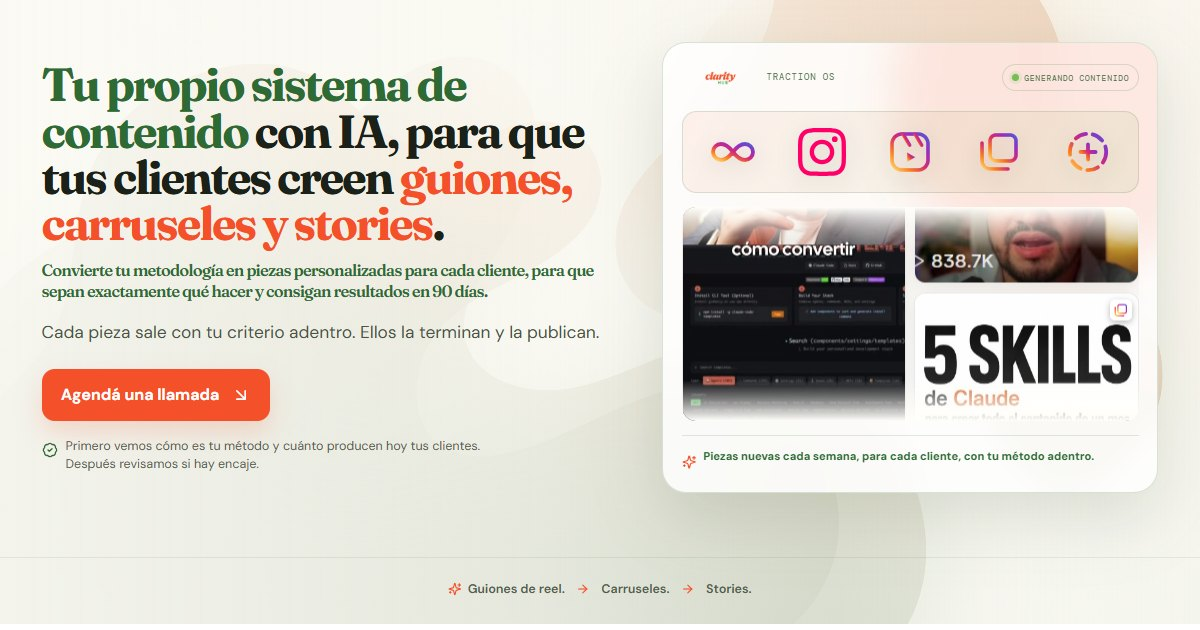
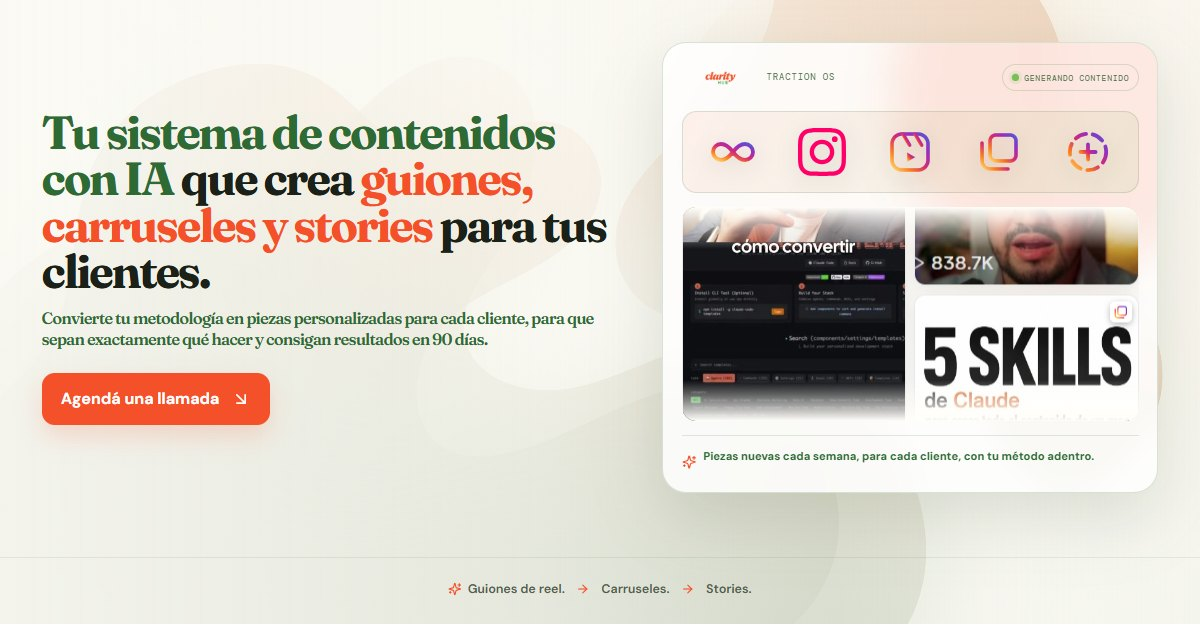
Traction OS: titular mas corto, menos relleno y sin numeros de cartera
Titular: "Tu sistema de contenidos con IA que crea guiones, carruseles y
stories para tus clientes". Mas corto y en voz activa: antes el sistema
era un medio para que el cliente hiciera algo; ahora el sistema es el que
crea. Va tambien en la seccion del home, en el title/description del
servidor y en llms.txt, que repetian la version vieja.

Fuera del hero dos frases de relleno: "cada pieza sale con tu criterio
adentro, ellos la terminan y la publican" y el microcopy de abajo del
boton. Queda titular, subtitulo y CTA.

Fuera los numeros de cartera de toda la web (veinte, dieciseis, ochenta).
No sabemos cuantos clientes tiene el que lee, y clavar veinte deja afuera
al que tiene cinco y al que tiene cien:

- "Tenes muchos clientes... se te va la hora con los primeros cuatro."
- "Los demas publican sin que nadie les haya mirado el guion."
- Beneficio 02: "Llegas a todos, no a los primeros cuatro."
- El grafico de alcance mantiene los puntos pero el rotulo ya no dice el
  numero: "4" contra "Todos".
- "Los ochenta guiones del mes" pasa a "cientos de guiones al mes", en el
  antes/despues y en el pie del grafico.

Resaltada con marcador amarillo la consecuencia en plata: "sin casos no
tenes embajadores que te refieran ni testimonios con que vender". El
degradado arranca al 56% para que parezca trazo y no un bloque, y con
box-decoration-break corta bien al pasar de renglon.

Imagenes de preview regeneradas: el hero cambio.
[…]

diff --git a/client/src/pages/TractionOS.tsx b/client/src/pages/TractionOS.tsx
@@ -45,9 +45,12 @@ const CUPO_MENSUAL = 5;
 // explican en la sesion; el corrige los que llega a corregir. El cuello de
 // botella es su hora de revision, no su teclado.
 const escenas = [
-  "Tenés veinte clientes y cada uno llega a la sesión con su guion. Escuchás, corregís, y se te va la hora con cuatro.",
-  "Los otros dieciséis publican sin que nadie les haya mirado el guion. O no publican y esperan a la semana que viene.",
-  "El que publica sin tu criterio no consigue resultados, y el que espera tampoco. Sin casos no tenés embajadores que te refieran ni testimonios con que vender.",
+  { texto: "Tenés muchos clientes y cada uno llega a la sesión con su guion. Escuchás, corregís, y se te va la hora con los primeros cuatro." },
+  { texto: "Los demás publican sin que nadie les haya mirado el guion. O no publican y esperan a la semana que viene." },
+  {
+    texto: "El que publica sin tu criterio no consigue resultados, y el que espera tampoco. ",
+    resalta: "Sin casos no tenés embajadores que te refieran ni testimonios con que vender.",
+  },
 ];
 
 const beneficios = [
@@ -58,7 +61,7 @@ const beneficios = [
     mock: "guion" as const,
   },
   {
-    titulo: "Llegás a los veinte, no a los cuatro de siempre",
+    titulo: "Llegás a todos, no a los primeros cuatro",
     texto:
       "No todos se animan a hablarte. Hay callados, y hay quien le saca el jugo a cada sesión. Con esto estás clonado y disponible para todos, todo el tiempo.",
     mock: "mentor" as const,
@@ -83,7 +86,7 @@ const fitSignals = [
 const faqs = [
   {
     q: "¿Reemplaza mis sesiones?",
-    a: "No. Dejan de ser una fila de veinte guiones para revisar. Llegás sabiendo qué publicó cada uno y usás la hora en lo que solo podés hacer vos.",
+    a: "No. Dejan de ser una fila de guiones para revisar. Llegás sabiendo qué publicó cada uno y usás la hora en lo que solo podés hacer vos.",
   },
   {
     q: "¿Qué pasa si no funciona?",
@@ -375,8 +378,10 @@ function MockGuion() {
 }
 
 /**
- * Mock 02: el punto es el ALCANCE ("llegas a los veinte, no a los cuatro").
- * Una lista de dos clientes no muestra veinte. Veinte puntos, si.
+ * Mock 02: el punto es el ALCANCE ("llegas a todos, no a los primeros cuatro").
+ * Una lista de dos clientes no muestra "todos"; una grilla de puntos si. Los
+ * puntos son ilustrativos: el rotulo NO dice cuantos, porque no sabemos cuantos
+ * clientes tiene el que lee.
  */
 function MockAlcance() {
   const puntos = Array.from({ length: 20 }, (_, i) => i);
@@ -388,7 +393,7 @@ function MockAlcance() {
       </div>
       <div className="alcance-fila">
         <div className="alcance-rotulo">
-          <b>4</b> de 20 <small>es lo que entra en tus horas de sesión</small>
+          <b>4</b> <small>es lo que entra en tus horas de sesión</small>
         </div>
         <div className="alcance-puntos">
           {puntos.map((i) => <i key={i} className={i < 4 ? "punto-antes" : ""} />)}
@@ -396,7 +401,7 @@ function MockAlcance() {
       </div>
       <div className="alcance-fila">
         <div className="alcance-rotulo">
-          <b>20</b> de 20 <small>con tu método adentro del sistema</small>
+          <b>Todos</b> <small>con tu método adentro del sistema</small>
         </div>
         <div className="alcance-puntos">
           {puntos.map((i) => <i key={i} className="punto-ahora" />)}
@@ -404,7 +409,7 @@ function MockAlcance() {
       </div>
       <div className="queue-foot">
         <Sparkles aria-hidden="true" />
-        <span>Los ochenta guiones del mes se escribieron con tu método. Vos elegís con cuál cliente te sentás.</span>
+        <span>Cientos de guiones al mes se escriben con tu método. Vos elegís con cuál cliente te sentás.</span>
       </div>
     </div>
   );
@@ -487,19 +492,13 @@ export default function TractionOS() {
               className="hero-copy"
             >
               <h1>
-                <span className="brand-highlight">Tu propio sistema de contenido</span> con IA, para que tus clientes creen <em>guiones, carruseles y stories</em>.
+                <span className="brand-highlight">Tu sistema de contenidos con IA</span> que crea <em>guiones, carruseles y stories</em> para tus clientes.
               </h1>
               <h2 className="hero-sub">
                 Convierte tu metodología en piezas personalizadas para cada cliente, para que sepan exactamente qué hacer y consigan resultados en 90 días.
               </h2>
-              <p className="hero-description">
-                Cada pieza sale con tu criterio adentro. Ellos la terminan y la publican.
-              </p>
               <div className="hero-actions">
                 <Cta texto="Agendá una llamada" />
-                <span className="hero-microcopy">
-                  <BadgeCheck aria-hidden="true" /> Primero vemos cómo es tu método y cuánto producen hoy tus clientes. Después revisamos si hay encaje.
-                </span>
               </div>
             </motion.div>
             <motion.div
@@ -544,14 +543,15 @@ export default function TractionOS() {
             <div className="escenas">
               {escenas.map((e, i) => (
                 <motion.p
-                  key={e}
+                  key={e.texto}
                   initial={{ opacity: 0, y: 14 }}
                   whileInView={{ opacity: 1, y: 0 }}
                   viewport={{ once: true, amount: 0.4 }}
                   transition={{ duration: 0.45, delay: i * 0.08 }}
                   className="escena"
                 >
-                  {e}
+                  {e.texto}
+                  {e.resalta && <mark>{e.resalta}</mark>}
                 </motion.p>
               ))}
             </div>
@@ -574,7 +574,7 @@ export default function TractionOS() {
                 className="swap-card swap-antes"
               >
                 <span className="swap-tag">Hoy</span>
-                <p>Cada cliente escribe su guion como puede. En la sesión llegás a corregir cuatro. Los otros dieciséis se publican igual.</p>
+                <p>Cada cliente escribe su guion como puede. En la sesión llegás a corregir cuatro. Los demás se publican igual.</p>
               </motion.div>
               <motion.div
                 initial={{ opacity: 0, y: 16 }}
@@ -584,7 +584,7 @@ export default function TractionOS() {
                 className="swap-card swap-despues"
               >
                 <span className="swap-tag">Con el sistema</span>
-                <p>Los ochenta guiones del mes ya vienen escritos con tu método. Vos no escribís ninguno.</p>
+                <p>Cientos de guiones al mes ya vienen escritos con tu método. Vos no escribís ninguno.</p>
               </motion.div>
             </div>
           </div>

diff --git a/client/src/components/sections/TractionOSSection.tsx b/client/src/components/sections/TractionOSSection.tsx
@@ -49,10 +49,10 @@ export default function TractionOSSection() {
               Clarity <span className="text-[#c9f29e]">Traction OS.</span>
             </h2>
             <p className="mt-6 max-w-xl text-lg leading-relaxed text-[#e0ecdb] md:text-xl">
-              Tenés veinte clientes y cada uno llega a la sesión con su guion. Escuchás, corregís, y se te va la hora con cuatro.
+              Tenés muchos clientes y cada uno llega a la sesión con su guion. Escuchás, corregís, y se te va la hora con los primeros cuatro.
             </p>
             <p className="mt-4 max-w-xl text-lg leading-relaxed text-[#e0ecdb] md:text-xl">
-              <strong className="text-[#c9f29e]">Tu propio sistema de contenido con IA</strong>, para que tus clientes creen guiones, carruseles y stories con tu metodología.
+              <strong className="text-[#c9f29e]">Tu sistema de contenidos con IA</strong> que crea guiones, carruseles y stories para tus clientes, con tu metodología adentro.
             </p>
             <div className="mt-8 grid gap-3">
               {[

diff --git a/functions/_middleware.ts b/functions/_middleware.ts
@@ -29,9 +29,9 @@ const POR_RUTA: Record<string, Meta> = {
     image: "/images/og-home.jpg",
   },
   "/traction-os": {
-    title: "Clarity Traction OS · Tu propio sistema de contenido con IA",
+    title: "Clarity Traction OS · Tu sistema de contenidos con IA",
     description:
-      "Tu propio sistema de contenido con IA, para que tus clientes creen guiones, carruseles y stories con tu metodología. Tomamos 5 mentores por mes.",
+      "Tu sistema de contenidos con IA que crea guiones, carruseles y stories para tus clientes, con tu metodología adentro. Tomamos 5 mentores por mes.",
     image: "/images/og-traction-os.jpg",
   },
   "/acquisition-os": {

diff --git a/client/src/traction-os.css b/client/src/traction-os.css
@@ -380,6 +380,8 @@
 .escenas { display: grid; gap: 1.7rem; max-width: 48rem; margin: .5rem auto 0; }
 .escena { position: relative; margin: 0; padding-left: 1.5rem; color: #2a3527;
   font-size: clamp(1.15rem, 2.4vw, 1.6rem); line-height: 1.42; font-weight: 500; }
+.escena mark { background: linear-gradient(transparent 56%, rgba(255,205,60,.75) 56%);
+  color: inherit; padding: 0 .12em; box-decoration-break: clone; -webkit-box-decoration-break: clone; }
 .escena::before { content: ""; position: absolute; left: 0; top: .55em;
   width: .55rem; height: .55rem; border-radius: 50%; background: var(--coral); }
 
